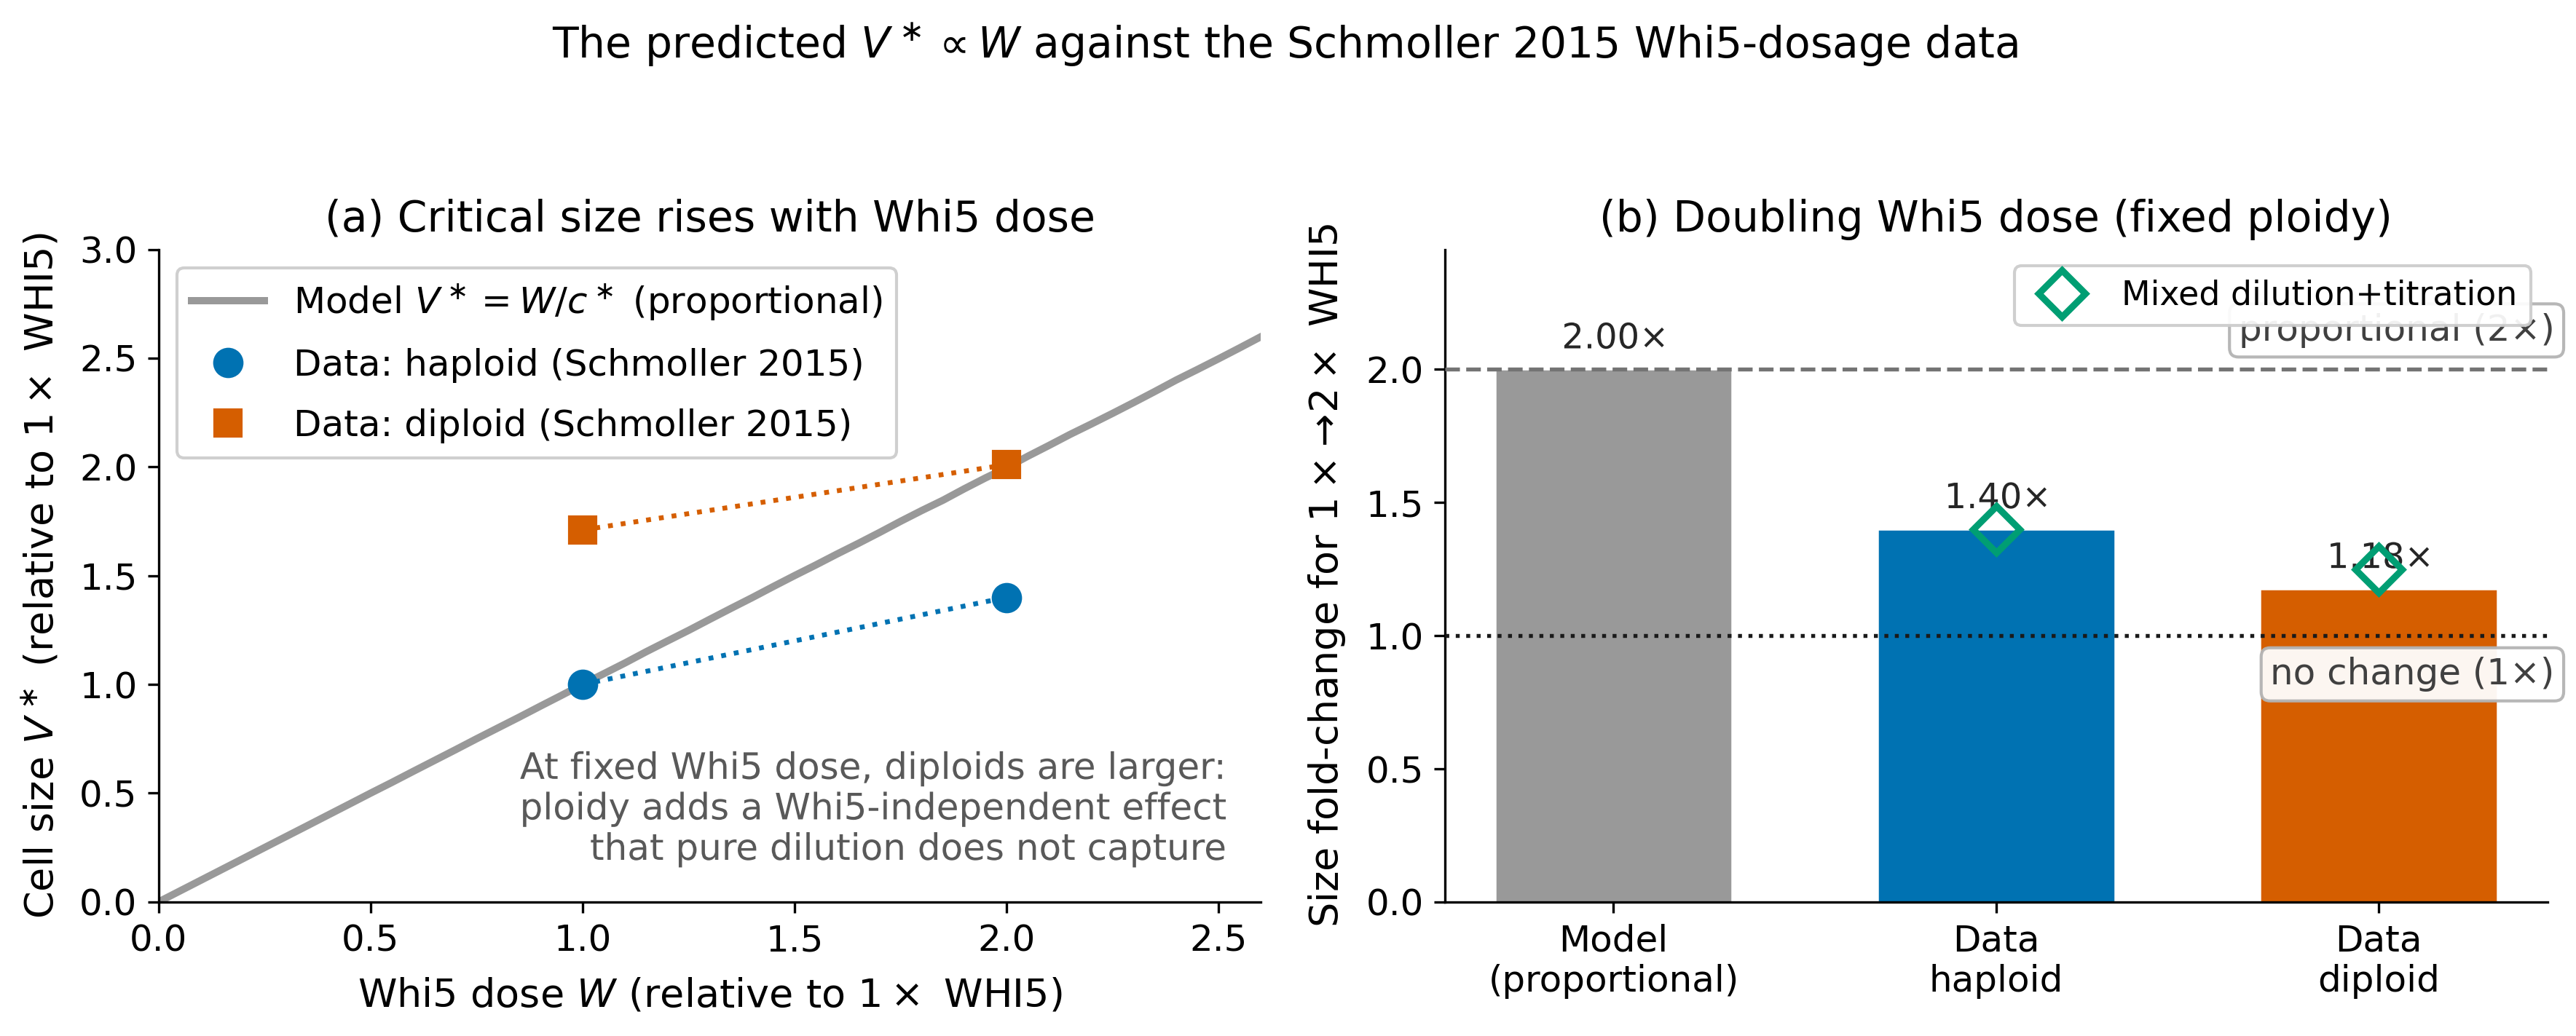
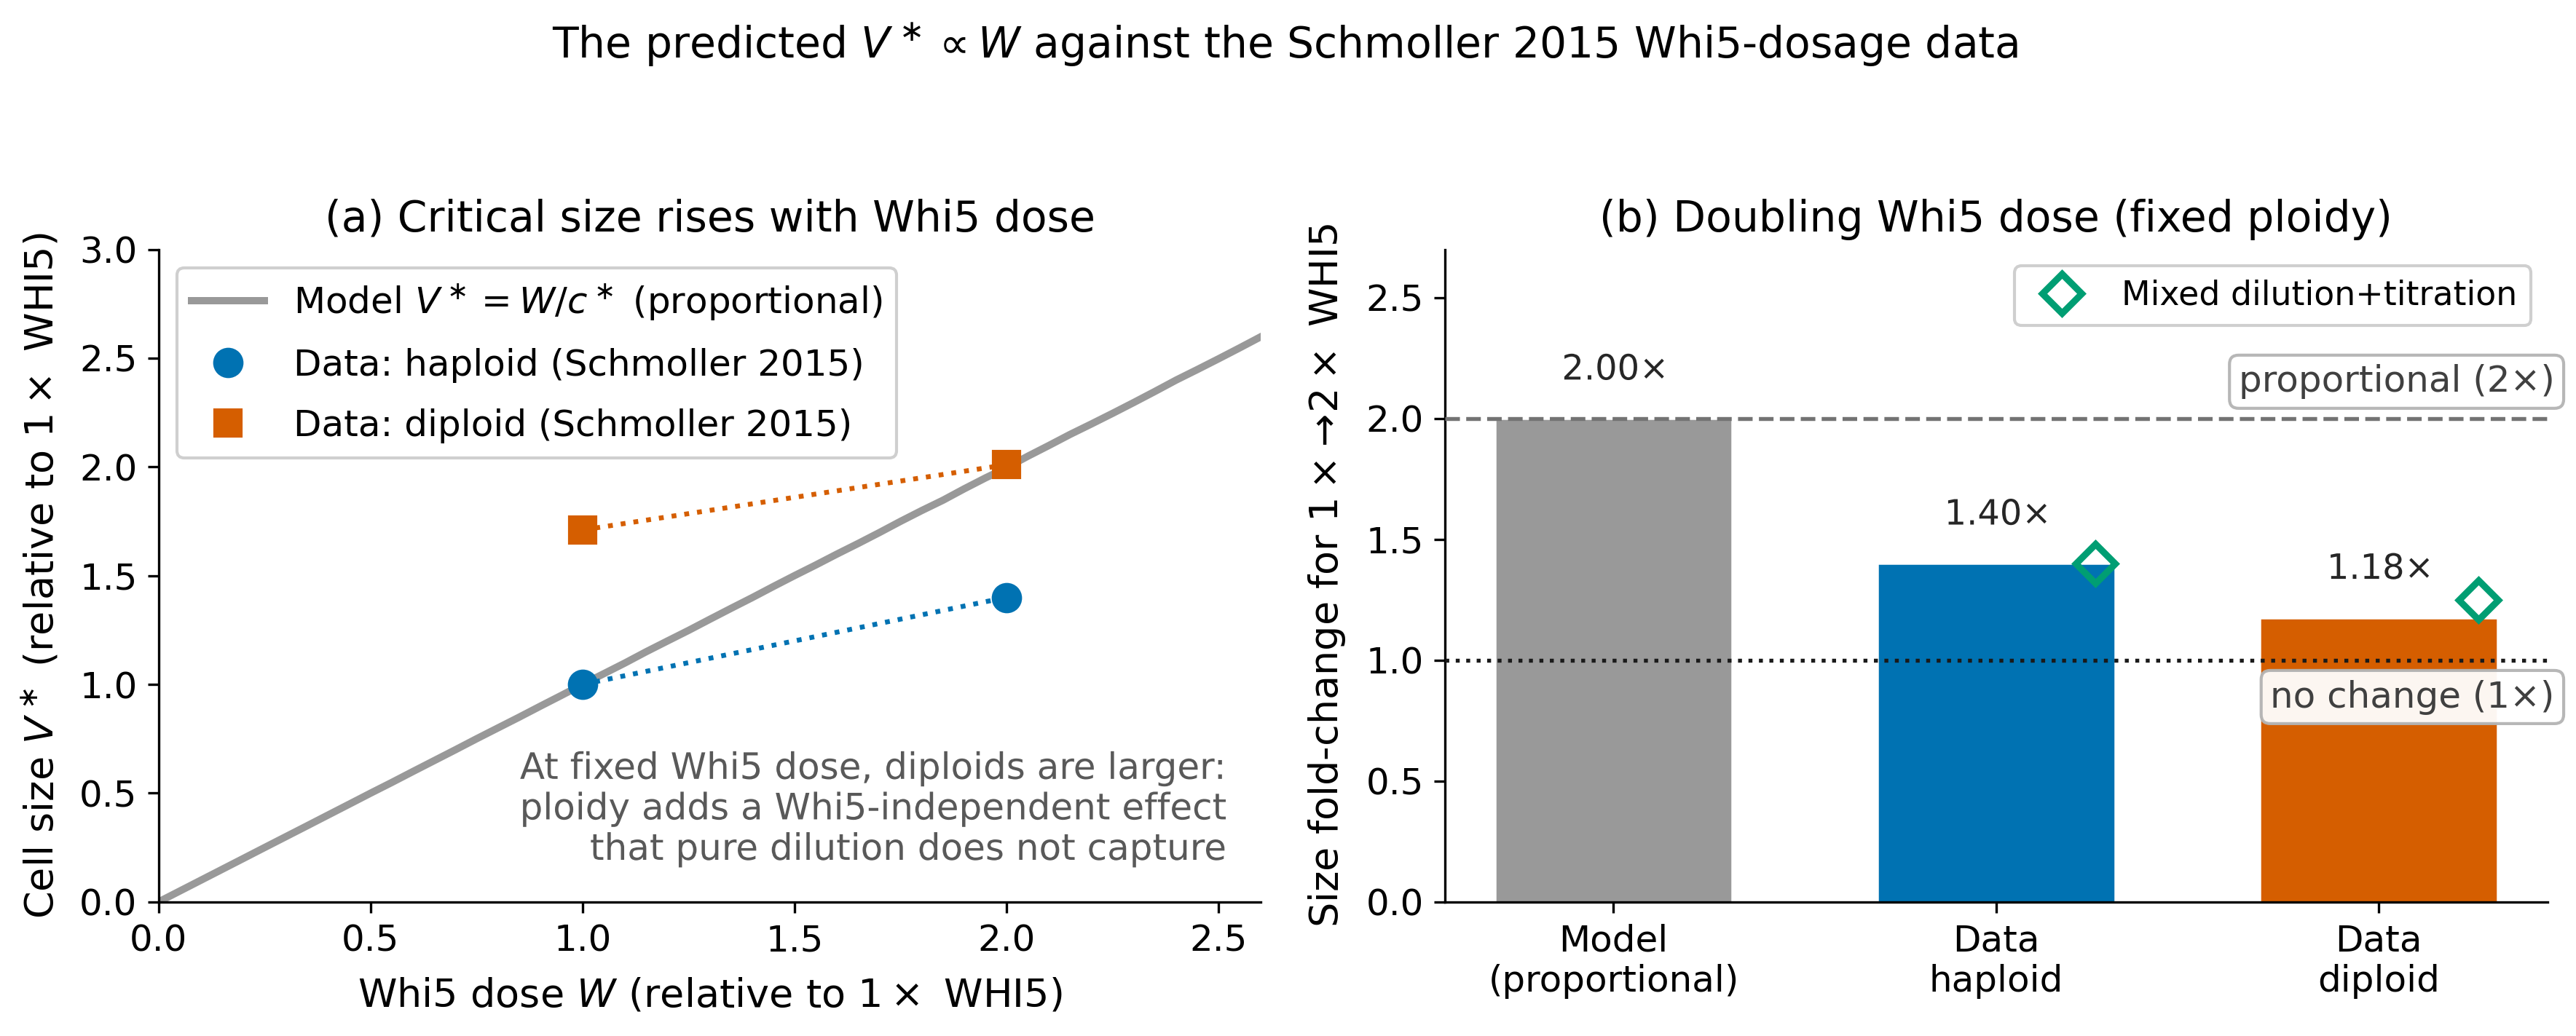
Refine panel-b legends, marker placement, and axis headroom in the calibration figures

diff --git a/analysis/plot_whi5_dosage_test.py b/analysis/plot_whi5_dosage_test.py
@@ -100,7 +100,7 @@ def main() -> None:
     axB.text(2.46, 0.92, "no change (1×)", fontsize=12, color="0.25",
              ha="right", va="top", zorder=6, bbox=_rbox)
     for x, f in zip(xpos, folds):
-        halo(axB.text(x, f + 0.05, f"{f:.2f}$\\times$", ha="center", va="bottom",
+        halo(axB.text(x, f + 0.13, f"{f:.2f}$\\times$", ha="center", va="bottom",
                       fontsize=11.5, color="0.15"))
     # overlay the mixed dilution+titration extension (V* = g*V0 + W/c*, one extra param rho):
     # it turns the pure model's 2x into the observed sub-proportional folds, and haploid > diploid.
@@ -111,14 +111,15 @@ def main() -> None:
             for row in csv.DictReader(fh):
                 mixed[int(row["ploidy"])] = float(row["fold"])
     if mixed:
-        mx = [1, 2]; my = [mixed[1], mixed[2]]
-        axB.plot(mx, my, "D", ms=11, mfc="none", mec=GREEN, mew=2.2, zorder=7,
+        # offset the markers to the bars' right shoulders so they don't sit on the fold labels
+        mx = [1.26, 2.26]; my = [mixed[1], mixed[2]]
+        axB.plot(mx, my, "D", ms=9, mfc="none", mec=GREEN, mew=2.2, zorder=7,
                  label="Mixed dilution+titration")
         opaque_legend(axB, loc="upper right", fontsize=11, markerscale=1.0)
     axB.set_xticks(xpos)
     axB.set_xticklabels(labels, fontsize=12)
     axB.set(ylabel=r"Size fold-change for $1\times\!\to\!2\times$ WHI5",
-            title="(b) Doubling Whi5 dose (fixed ploidy)", ylim=(0, 2.45))
+            title="(b) Doubling Whi5 dose (fixed ploidy)", ylim=(0, 2.7))
 
     fig.tight_layout(rect=(0, 0, 1, 0.95))
     issues = pub_audit(fig)

diff --git a/analysis/plot_rls_abc.py b/analysis/plot_rls_abc.py
@@ -58,10 +58,11 @@ def main() -> None:
     xs = np.linspace(0, pp.max(), 300)
     axB.plot(xs, norm.pdf(xs, MEAN_T, SD_T), "-", lw=2.6, color=VERM,
              label=f"McCormick 2015 WT, suppl. data\n(mean {MEAN_T}, SD {SD_T})")
-    axB.axvline(pp.mean(), color=BLUE, lw=1.4, ls="--")
-    axB.axvline(MEAN_T, color=VERM, lw=1.4, ls=":")
+    # cap the mean-markers just above the density peak so they don't run up behind the legend
+    axB.axvline(pp.mean(), color=BLUE, lw=1.4, ls="--", ymax=0.68)
+    axB.axvline(MEAN_T, color=VERM, lw=1.4, ls=":", ymax=0.68)
     # headroom above the density peak so the legend sits clear of both the bars and the curve
-    ytop = max(n.max(), norm.pdf(MEAN_T, MEAN_T, SD_T)) * 1.42
+    ytop = 0.065  # fixed headroom so the legend clears the histogram peak
     axB.set(xlabel="Replicative lifespan (divisions)", ylabel="Probability density",
             title="(b) Posterior-predictive matches the data", xlim=(0, 60),
             ylim=(0, ytop))

diff --git a/analysis/plot_daughter_rls.py b/analysis/plot_daughter_rls.py
@@ -141,7 +141,7 @@ def main():
                   f"absolute lifespans run ~{off*100:.0f}% low;\n"
                   "the held-out claim is the fold, not the level",
                   ha="left", va="top", fontsize=10.5, color="0.30", style="italic"))
-    opaque_legend(axB, loc="upper right", fontsize=11)
+    opaque_legend(axB, loc="upper right", bbox_to_anchor=(1.0, 0.84), fontsize=11)
 
     fig.tight_layout(rect=(0, 0, 1, 0.94))
     issues = pub_audit(fig)